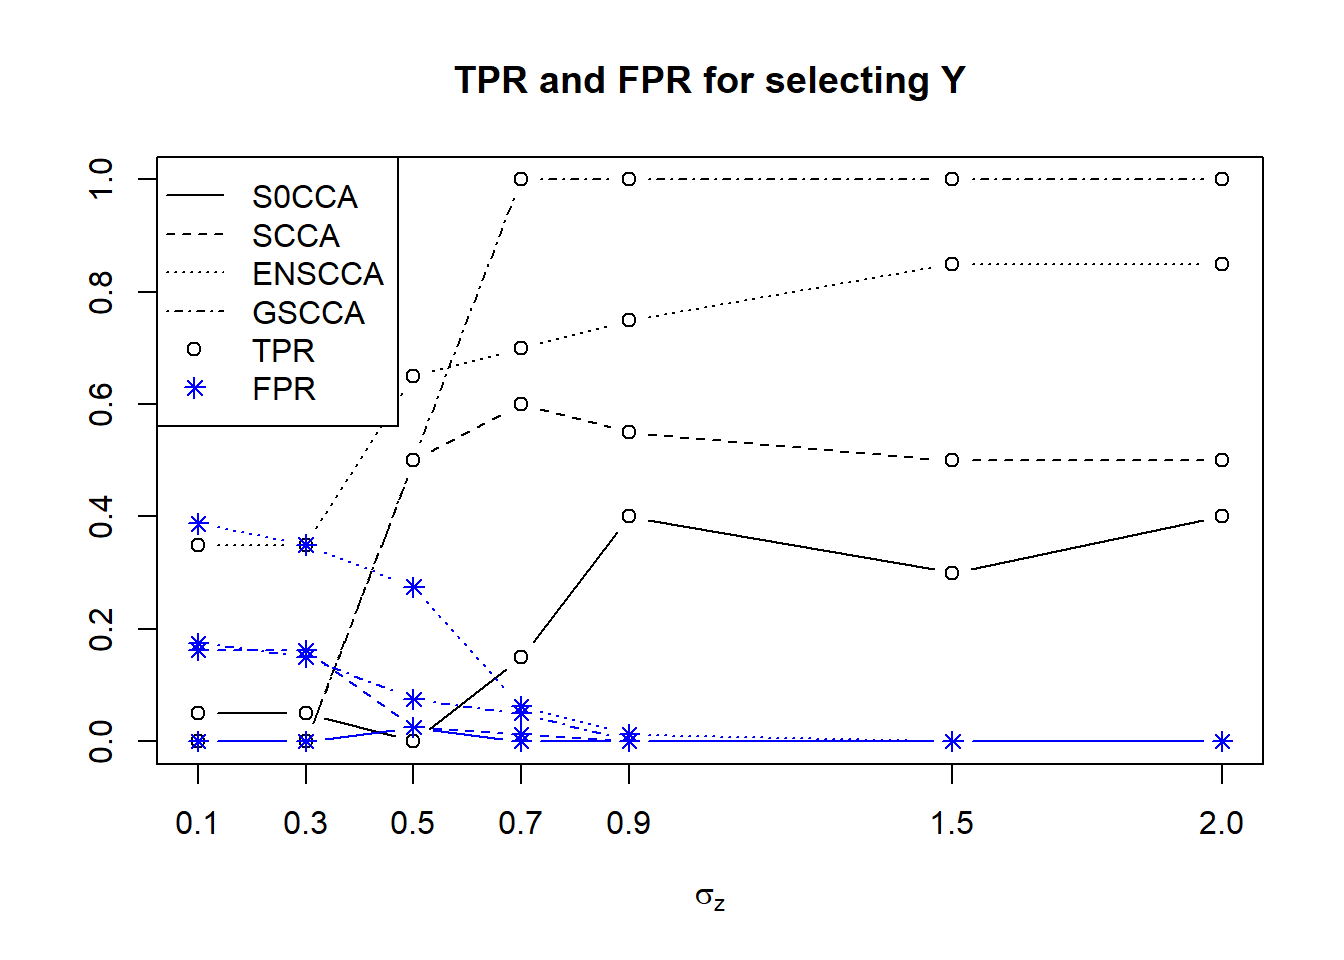
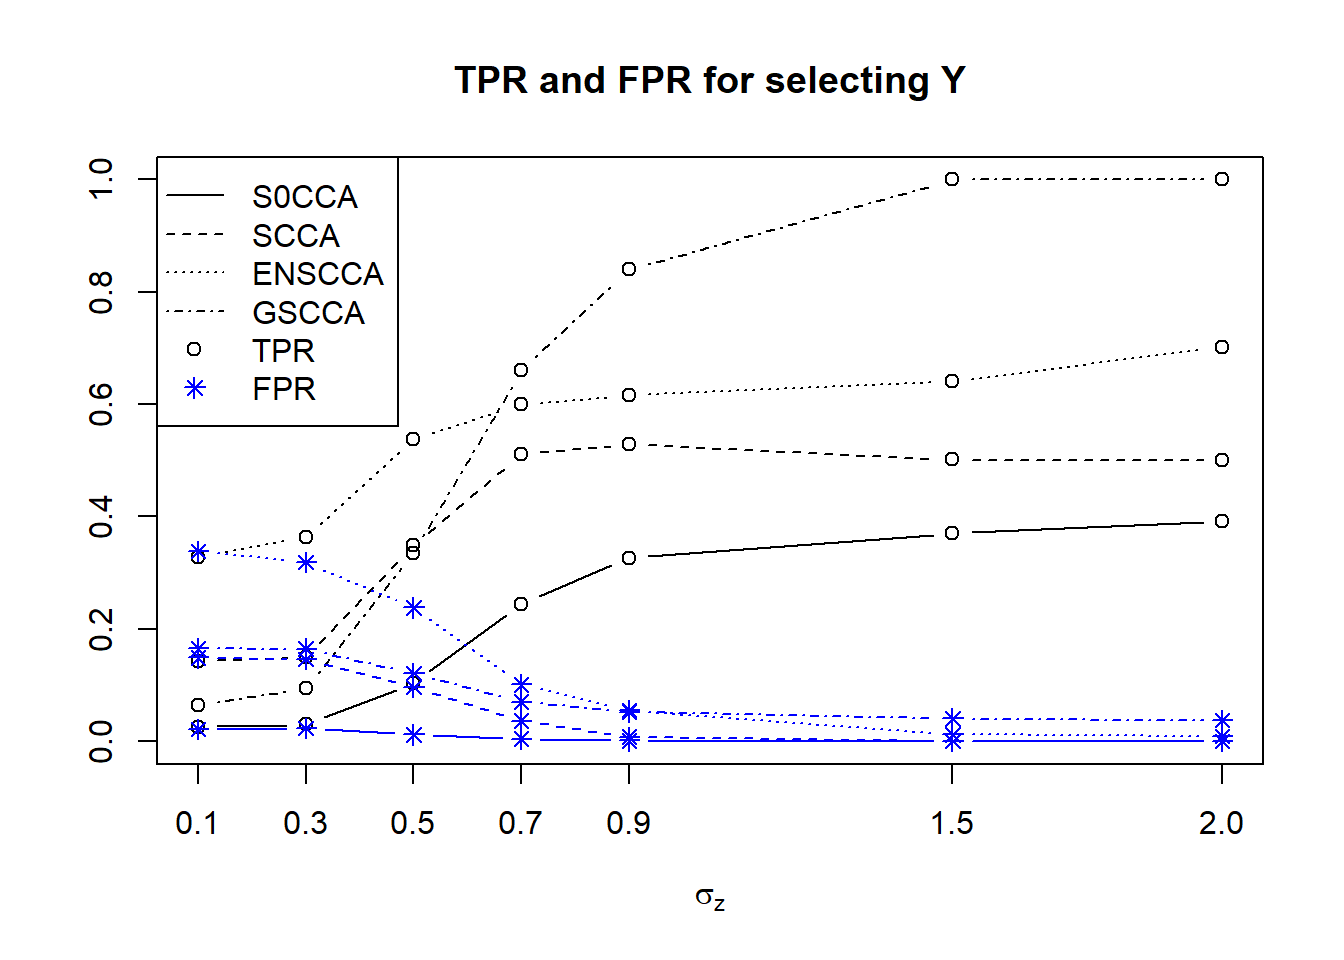
Build site.

diff --git a/docs/model2.html b/docs/model2.html
@@ -319,10 +319,10 @@ div.section {
 shared across the workflowr files. -->
 <!-- Update knitr chunk options -->
 <!-- Insert the date the file was last updated -->
-<p><strong>Last updated:</strong> 2017-12-29</p>
+<p><strong>Last updated:</strong> 2018-01-07</p>
 <!-- Insert the code version (Git commit SHA1) if Git repository exists and R
  package git2r is installed -->
-<p><strong>Code version:</strong> a087ffc</p>
+<p><strong>Code version:</strong> d82725d</p>
 <!-- Add your analysis here -->
 <p>Model 2 examines the effect of correlation strength.</p>
 <pre class="r"><code>library(scca)
@@ -337,10 +337,10 @@ model2S1=c()
 model2elnet=c()
 model2gscca=c()
 for(sz in 1:length(szlist)){
-  model2S0=rbind(model2S0,finals(s0cca_simu(1,u,v,50,&#39;normal&#39;,szlist[sz],sigma_x,sigma_y)))
-  model2S1=rbind(model2S1,finals(s1cca_simu(1,u,v,50,&#39;normal&#39;,szlist[sz],sigma_x,sigma_y)))
-  model2elnet=rbind(model2elnet,finals(elnet.cca.simu(1,u,v,50,&#39;normal&#39;,szlist[sz],sigma_x,sigma_y)))
-  model2gscca=rbind(model2gscca,finals(gscca.simu.normal(1,edges,u,v,50,&#39;normal&#39;,szlist[sz],sigma_x,sigma_y,gamma.u = 2.12,gamma.v = 2.12)))
+  model2S0=rbind(model2S0,finals(s0cca_simu(100,u,v,50,&#39;normal&#39;,szlist[sz],sigma_x,sigma_y)))
+  model2S1=rbind(model2S1,finals(s1cca_simu(100,u,v,50,&#39;normal&#39;,szlist[sz],sigma_x,sigma_y)))
+  model2elnet=rbind(model2elnet,finals(elnet.cca.simu(100,u,v,50,&#39;normal&#39;,szlist[sz],sigma_x,sigma_y)))
+  model2gscca=rbind(model2gscca,finals(gscca.simu.normal(100,edges,edges,u,v,50,&#39;normal&#39;,szlist[sz],sigma_x,sigma_y,gamma.u = 2.12,gamma.v = 2.12)))
 }</code></pre>
 <p>TPR and FPR when selecting x</p>
 <pre class="r"><code>plot(szlist,model2S0[,1],xlab=expression(sigma[z]),ylab = &#39;&#39;,main = &#39;TPR and FPR for selecting X&#39;,type = &#39;b&#39;,ylim = c(0,1), xaxt=&quot;n&quot;)
@@ -403,16 +403,29 @@ attached base packages:
 [1] stats     graphics  grDevices utils     datasets  methods   base     
 
 other attached packages:
- [1] scca_0.1.0       dirmult_0.1.3-4  matrixcalc_1.0-3 glmnet_2.0-13   
- [5] foreach_1.4.3    genlasso_1.3     igraph_1.1.2     Matrix_1.2-9    
- [9] MASS_7.3-47      PMA_1.0.9        impute_1.50.1    plyr_1.8.4      
+ [1] scca_0.1.0      phyloseq_1.20.0 dirmult_0.1.3-4 glmnet_2.0-13  
+ [5] foreach_1.4.3   genlasso_1.3    igraph_1.1.2    Matrix_1.2-9   
+ [9] MASS_7.3-47     PMA_1.0.9       impute_1.50.1   plyr_1.8.4     
 
 loaded via a namespace (and not attached):
- [1] Rcpp_0.12.14     knitr_1.15.1     magrittr_1.5     lattice_0.20-35 
- [5] stringr_1.2.0    tools_3.4.0      grid_3.4.0       git2r_0.20.0    
- [9] htmltools_0.3.5  iterators_1.0.8  yaml_2.1.16      rprojroot_1.3-1 
-[13] digest_0.6.13    codetools_0.2-15 evaluate_0.10    rmarkdown_1.8   
-[17] stringi_1.1.6    compiler_3.4.0   backports_1.0.5  pkgconfig_2.0.1 </code></pre>
+ [1] reshape2_1.4.2      splines_3.4.0       lattice_0.20-35    
+ [4] rhdf5_2.20.0        colorspace_1.3-2    htmltools_0.3.5    
+ [7] stats4_3.4.0        yaml_2.1.16         mgcv_1.8-17        
+[10] survival_2.41-3     rlang_0.1.2         BiocGenerics_0.22.0
+[13] stringr_1.2.0       zlibbioc_1.21.0     Biostrings_2.43.8  
+[16] munsell_0.4.3       gtable_0.2.0        codetools_0.2-15   
+[19] evaluate_0.10       Biobase_2.35.1      knitr_1.15.1       
+[22] permute_0.9-4       IRanges_2.9.19      biomformat_1.4.0   
+[25] parallel_3.4.0      Rcpp_0.12.14        backports_1.0.5    
+[28] scales_0.4.1        vegan_2.4-4         S4Vectors_0.13.17  
+[31] jsonlite_1.4        XVector_0.15.2      ggplot2_2.2.1      
+[34] digest_0.6.13       stringi_1.1.6       grid_3.4.0         
+[37] ade4_1.7-6          rprojroot_1.3-1     tools_3.4.0        
+[40] magrittr_1.5        lazyeval_0.2.0      tibble_1.3.3       
+[43] cluster_2.0.6       ape_5.0             pkgconfig_2.0.1    
+[46] data.table_1.10.4   rmarkdown_1.8       iterators_1.0.8    
+[49] multtest_2.32.0     nlme_3.1-131        git2r_0.20.0       
+[52] compiler_3.4.0     </code></pre>
 
 <!-- Adjust MathJax settings so that all math formulae are shown using
 TeX fonts only; see
